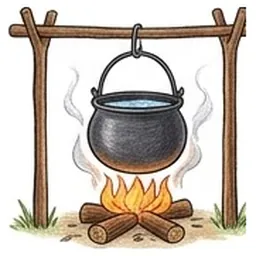
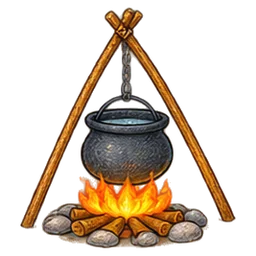
Images : planche Fond blanc 1 (25 mots refaits au crayon, détourés)
Claude-Session: https://claude.ai/code/session_01UkP11uCuPaN6MyB6YyqYQX

diff --git a/sw.js b/sw.js
@@ -1,6 +1,6 @@
 // Service worker : fonctionnement hors ligne.
 // Pensez à changer VERSION à chaque mise à jour des fichiers pour que les téléphones la récupèrent.
-var VERSION = "v214";
+var VERSION = "v215";
 var CACHE = "jeux-ecole-" + VERSION;
 var FILES = [
   "./",

diff --git a/CLAUDE.md b/CLAUDE.md
@@ -130,7 +130,7 @@ Cibles >= 56px, bordures 3px, textes secondaires >= 16px, menus centrés vertica
 - **Mots activés (remplace les leçons cochées, à la demande de l'utilisateur)** : Paramètres → 📖 Mots d'allemand → interrupteur ✅ par mot, boutons Tout/Aucun par leçon et Tout activer/désactiver, **par profil** (pastilles des profils). Clé `de_off@<profil>` = mots désactivés (`deOff`, `deOffSave`, `deOn`, `deOnSet` dans `allemand-mots.js`) ; au premier usage, désactivés = mots hors des leçons cochées pour Finde das Wort ; un mot ajouté plus tard est activé d'office. Tous les jeux (pool de `deutsch.html`, `memory.html`, `courses.html`) tirent les mots activés ; difficulté allemand ×1,25 si plus de 60 mots activés. Le menu « 🎮 Réglages des jeux » est retiré des Paramètres (doublon, à la demande de l'utilisateur) : seule l'entrée « 📖 Mots d'allemand » reste (page `jeux` conservée mais inaccessible). **Le manuel reste en mémoire** (rangement par leçon, `deSelected`/`deSave`, page `lecons` masquée mais conservée).
 - (Ancien, conservé mais plus utilisé) Paramètres → 🎮 Réglages des jeux → Der · Die · Das / Finde das Wort : leçons cochées **par jeu et par profil** (clés `de_sel_dde@<profil>`, `de_sel_fdw@<profil>`, défaut `DE_DEFAULT` = leçons 1-10). Les jeux ne tirent que les mots des leçons cochées (message s'il y en a moins de 3).
 - **Dictionnaire hors manuel** (à la demande de l'utilisateur) : mots ajoutés en dehors du manuel, en **leçon 100** (`DE_DICT`, module `dico` « 📖 Dictionnaire · Mots en plus », période 0 affichée « 📖 Hors manuel » dans les réglages des leçons). **Coché d'office** dans tous les jeux (`deSelected` l'ajoute sauf si la liste enregistrée contient `-100` = décoché volontairement ; `deSave` ajoute `-100` quand il n'est pas coché). Mots : **die Klementine** (dessin `DE_SVG` : deux clémentines ; aussi dans `DE_BUY` pour la liste des courses). Pour ajouter un mot : une ligne `"100|article|Mot|emoji"` (ou image vide + dessin dans `DE_SVG`).
-- **Images Gemini (en cours)** : l'utilisateur génère les images des mots dans l'appli Gemini de son téléphone, un peu chaque jour, avec les consignes de `outils/gemini-images.md` (produit par `outils/gen_prompts.py` : style commun + sujet par mot, 230 mots, mots sans image d'abord, 20 par jour). Il renvoie les images dans la session avec leurs numéros (conseil donné : coller d'abord un message de style unique dans une nouvelle conversation, puis un sujet par message ; Gemini peut proposer plusieurs variantes, on garde la meilleure). Intégration : `python3 outils/images.py <image> <Mot> …` rogne le blanc, met en carré, réduit à 256 px, enregistre `jeux/img/de/<slug>.webp` (ä→ae, ö→oe, ü→ue, ß→ss), met à jour `DE_IMG` dans `allemand-mots.js` (l'image est prioritaire sur l'emoji et le dessin : `deImg` = `<img class="deimg">` 1,3em, chemin relatif à l'accueil) et la liste entre `// images-de` dans `sw.js`. Puis changer `VERSION`. Faites : 1 à 125 (tous les mots ont une image). **Planches 2 à 6 (126-230, tous les mots du manuel en style crayon) et Lerne A (L1-L25) faites avec ChatGPT, images détourées sur fond transparent : découpe `python3 outils/decoupe.py planche.png dossier` (composantes connexes : parasites retirés, traits fins gardés, dessins entiers même s'ils débordent ; `colonnes lignes` en option, ex. `5 1`), puis `images.py` (garde la transparence). **Prompts prêts : `outils/chatgpt-planches.md`** (planche 3, planche 5 avec chiffres, et Lerne A/B/C = les 74 mots de « Lerne neue Wörter » sans image, numérotés L1-L74, grilles 5 × 5 ; à intégrer avec `decoupe.py` puis `images.py <img> <Mot>`, ce qui les fait entrer dans l'exercice). Lerne B et C faites (planche de 49 sur fond blanc : fond retiré par remplissage depuis les bords, puis découpe en lignes repérées à la main ; « sagen » illustré ensuite par la planche Océan : deux enfants qui se parlent, bulle avec un cœur ; **tous les mots ont désormais une image**) ; **les nombres (zwei, sechs, sieben, neun, zwölf) = gros chiffres dessinés, pas des objets à compter** (à la demande de l'utilisateur : zwei, neun, sieben, sechs refaits avec la planche 5, en grille 6 × 5, dernière case vide) (prompt : vraie transparence, pas de damier, pas de cadre, sujets séparés ; sujets blancs avec contour, pas de décor).** Rappel quotidien à 11 h 53 (Paris) demandé par l'utilisateur : tâche planifiée « Rappel : images Gemini manquantes » (`trig_01YDTJjxTUJCC9bXXBs6b6VL`), à supprimer quand tout est fait, brauchen refait avec parapluie ; planches d'harmonisation : planche 1 faite (kneten, Jäger refaits, 103-125) (planches découpées ; les cases à bordure grise sont détectées par profils de pixels non blancs, puis rognées de 9 px). Gemini peut générer une planche de 20 images en une fois : découper en grille (cases de largeur/5), puis outils/images.py. Noter chaque mot Gemini fait dans `outils/gemini-faits.txt`.
+- **Images Gemini (en cours)** : l'utilisateur génère les images des mots dans l'appli Gemini de son téléphone, un peu chaque jour, avec les consignes de `outils/gemini-images.md` (produit par `outils/gen_prompts.py` : style commun + sujet par mot, 230 mots, mots sans image d'abord, 20 par jour). Il renvoie les images dans la session avec leurs numéros (conseil donné : coller d'abord un message de style unique dans une nouvelle conversation, puis un sujet par message ; Gemini peut proposer plusieurs variantes, on garde la meilleure). Intégration : `python3 outils/images.py <image> <Mot> …` rogne le blanc, met en carré, réduit à 256 px, enregistre `jeux/img/de/<slug>.webp` (ä→ae, ö→oe, ü→ue, ß→ss), met à jour `DE_IMG` dans `allemand-mots.js` (l'image est prioritaire sur l'emoji et le dessin : `deImg` = `<img class="deimg">` 1,3em, chemin relatif à l'accueil) et la liste entre `// images-de` dans `sw.js`. Puis changer `VERSION`. Faites : 1 à 125 (tous les mots ont une image). **Planches 2 à 6 (126-230, tous les mots du manuel en style crayon) et Lerne A (L1-L25) faites avec ChatGPT, images détourées sur fond transparent : découpe `python3 outils/decoupe.py planche.png dossier` (composantes connexes : parasites retirés, traits fins gardés, dessins entiers même s'ils débordent ; `colonnes lignes` en option, ex. `5 1`), puis `images.py` (garde la transparence). **Prompts prêts : `outils/chatgpt-planches.md`** (planche 3, planche 5 avec chiffres, et Lerne A/B/C = les 74 mots de « Lerne neue Wörter » sans image, numérotés L1-L74, grilles 5 × 5 ; à intégrer avec `decoupe.py` puis `images.py <img> <Mot>`, ce qui les fait entrer dans l'exercice). Lerne B et C faites (planche de 49 sur fond blanc : fond retiré par remplissage depuis les bords, puis découpe en lignes repérées à la main ; « sagen » illustré ensuite par la planche Océan : deux enfants qui se parlent, bulle avec un cœur ; **tous les mots ont désormais une image**) ; **les nombres (zwei, sechs, sieben, neun, zwölf) = gros chiffres dessinés, pas des objets à compter** (à la demande de l'utilisateur : zwei, neun, sieben, sechs refaits avec la planche 5, en grille 6 × 5, dernière case vide) (prompt : vraie transparence, pas de damier, pas de cadre, sujets séparés ; sujets blancs avec contour, pas de décor).** Rappel quotidien à 11 h 53 (Paris) demandé par l'utilisateur : tâche planifiée « Rappel : images Gemini manquantes » (`trig_01YDTJjxTUJCC9bXXBs6b6VL`), à supprimer quand tout est fait, brauchen refait avec parapluie ; **Fond blanc 1 (W1-W25) faite** (planche ChatGPT transparente, `decoupe.py … 5 5` puis `images.py`) ; planches d'harmonisation : planche 1 faite (kneten, Jäger refaits, 103-125) (planches découpées ; les cases à bordure grise sont détectées par profils de pixels non blancs, puis rognées de 9 px). Gemini peut générer une planche de 20 images en une fois : découper en grille (cases de largeur/5), puis outils/images.py. Noter chaque mot Gemini fait dans `outils/gemini-faits.txt`.
 - **Fluent Emoji 3D** (à la demande de l'utilisateur : « Fluent pour tout ce qui représente très bien les mots, Gemini pour les autres ») : `outils/fluent.py` (liste `F` mot → emoji ; plusieurs emoji = images côte à côte, ex. Vögel, Bäume, Mäuse, zwölf) télécharge `@lobehub/fluent-emoji-3d` (npm, MIT) et écrit `jeux/img/de/<slug>.webp`, sans jamais écraser un mot de `gemini-faits.txt`. 128 mots en Fluent ; retirés car pas assez clairs : Fuß, Nebel, waschen, Freund, Freundin (→ Gemini). Ensuite (demande de l'utilisateur : « passer toute émoticône en images générées », style crayon unique) : les mots Fluent sont numérotés 103-230 dans `gemini-images.md`, et `outils/gemini-planches.md` donne des planches de 25 prêtes à coller (planche 1 = refaire aussi kneten et der Jäger). Une image Gemini remplace l'image Fluent (ajouter le mot à `gemini-faits.txt`).
 - **📖 Mots d'allemand** (Paramètres, à la demande de l'utilisateur : « gérer la liste de mots allemand et leur image, rajouter des mots ; tu me demanderas les images ») : pages `dewords` (liste par leçon avec image, recherche, « + Ajouter un mot », carte « 🖼 Mots sans image » avec consigne Gemini à copier, `dwPrompt`) et `deword` (fiche : 📷 choisir une image sur le téléphone → éditeur `phOpen(f, cb)` en carré, fond blanc, 256 px WebP ; image d'origine ; pour un mot ajouté : article, mot (majuscule auto pour un nom), leçon (défaut 100 = Dictionnaire), « image à dessiner » en français, liste des courses ; masquer un mot du manuel ; supprimer un mot ajouté). Données sur le téléphone : `localStorage.de_words = {add:[{id,n,a,w,fr,buy}], img:{Mot:dataURL}, hide:[Mot]}` ; `deBuild()` (fin de `allemand-mots.js`) calcule `DE_ALL` (tout), `DE_WORDS` (sans les masqués), `DE_BUY` (= `DE_BUY0` + mots ajoutés « courses ») ; image du téléphone > image du dépôt > emoji > dessin. Quand l'utilisateur envoie les images de ses mots ajoutés, les intégrer au dépôt (ligne `DE_RAW` + `outils/images.py`) : un mot du dépôt l'emporte sur le même mot ajouté.
 - **warm** = thermomètre rouge presque plein avec des vagues de chaleur (dessin SVG maison rendu en `jeux/img/de/warm.webp`, à la demande de l'utilisateur : le soleil faisait doublon avec sonnig).
